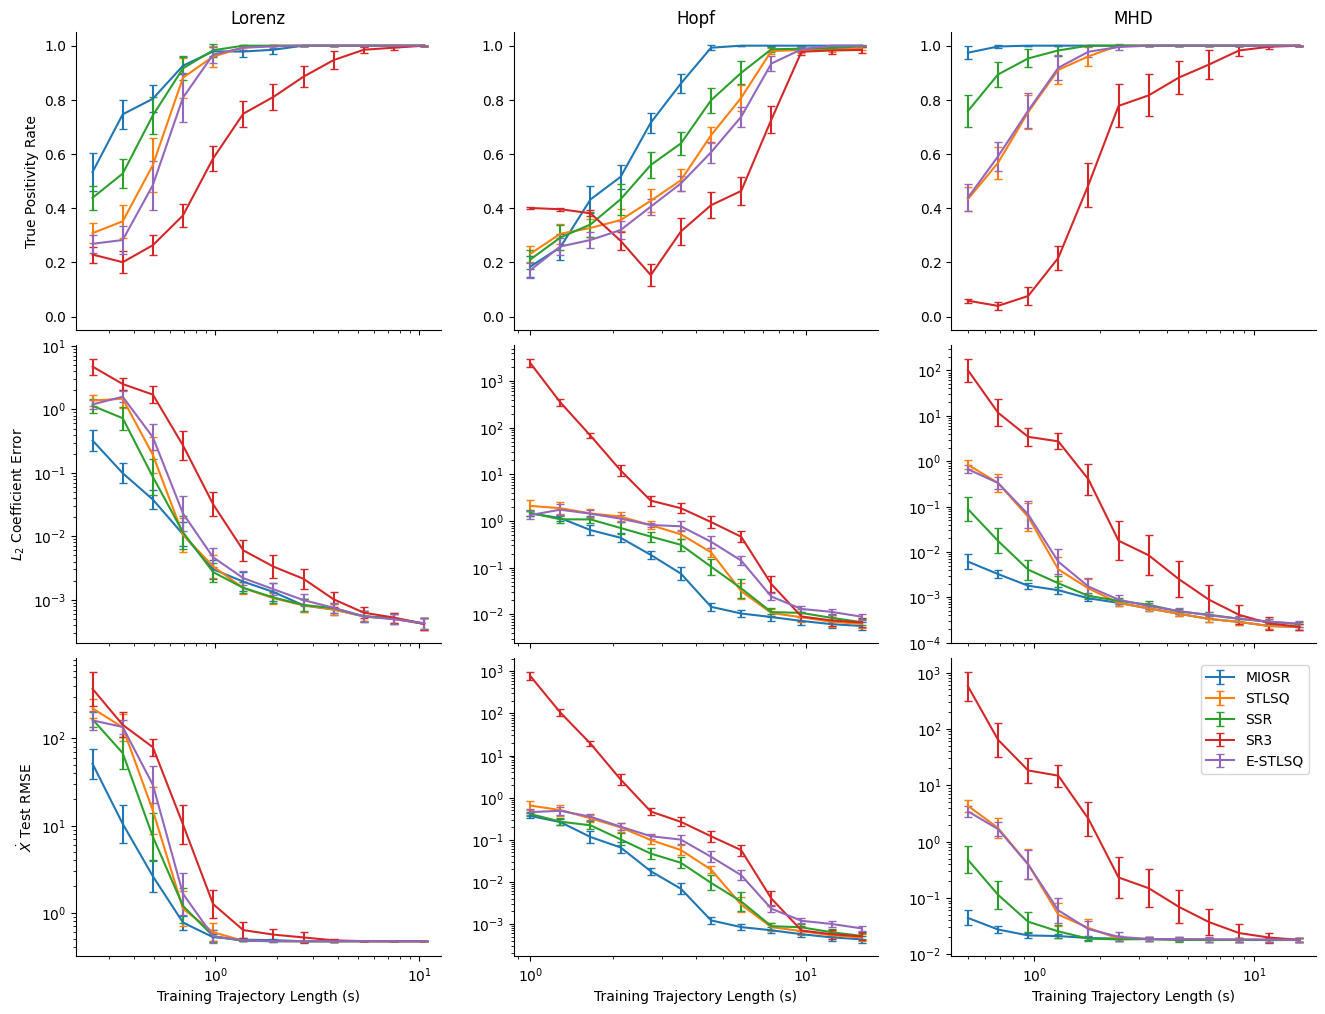
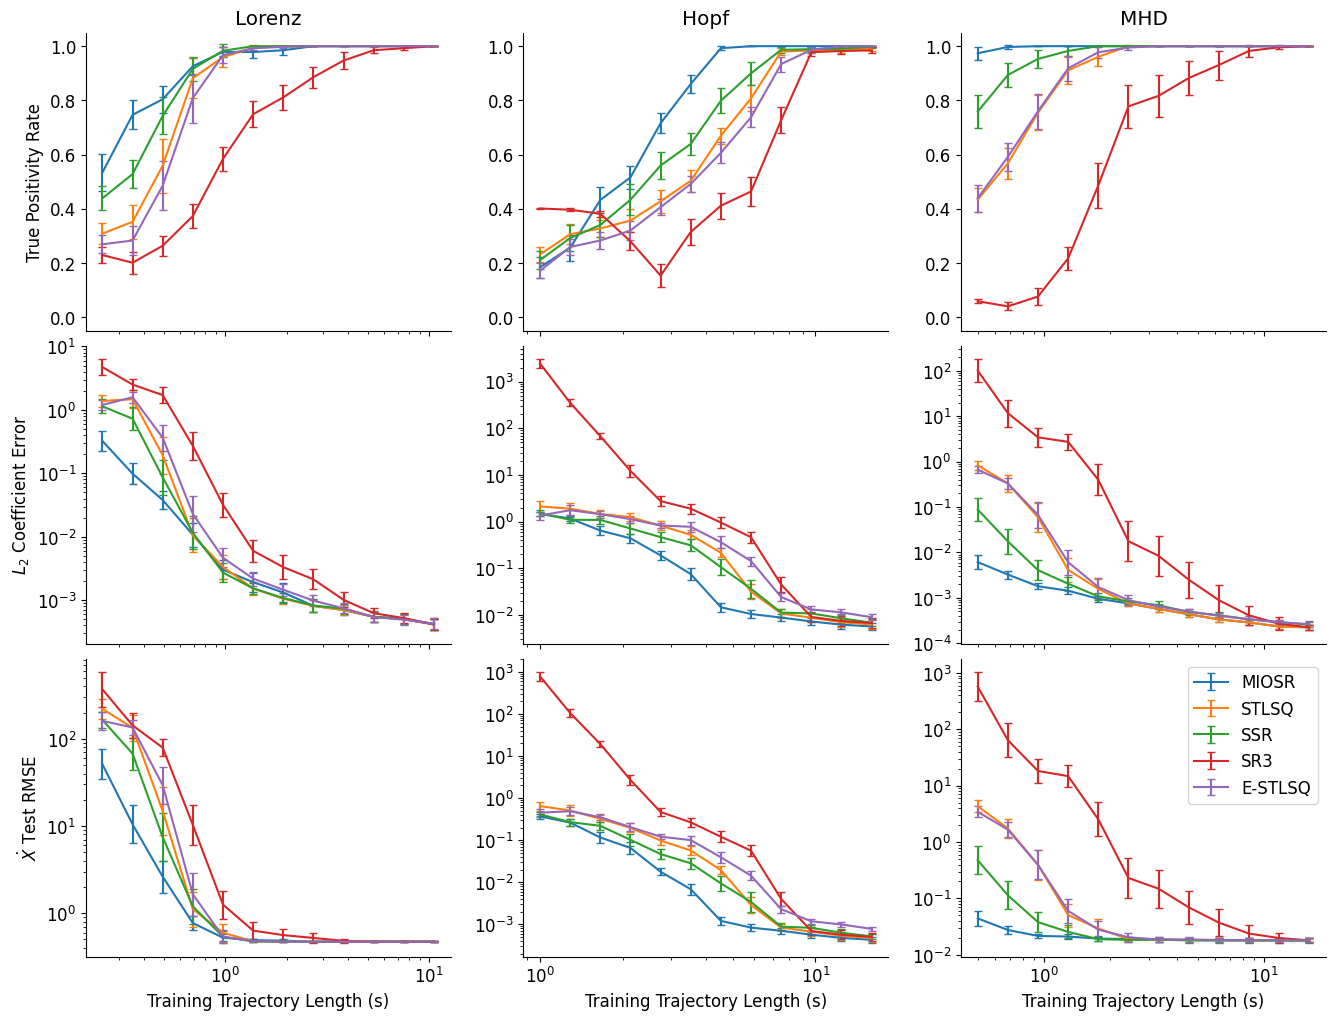
finalize plots

diff --git a/miosr.py b/miosr.py
@@ -61,15 +61,9 @@ class MIOSR(BaseOptimizer):
             copy_X=copy_X,
         )
 
-        # if target_sparsity is not None and\
-        #             (target_sparsity <= 0 or not isinstance(target_sparsity, int)) :
-        #     raise ValueError("target_sparsity must be positive int")
-        # if group_sparsity is not None \
-        #         and ([g_sparsity <= 0 or not isinstance(g_sparsity, int)
-        #               for g_sparsity in group_sparsity]) \
-        #         and (target_sparsity is None or sum(group_sparsity) >= target_sparsity):
-        #     raise ValueError("group_sparsity must be tuple of positive integers"
-        #                      "with sum greater than target_sparsity")
+        if target_sparsity is not None and\
+                    (target_sparsity <= 0 or not isinstance(target_sparsity, int)):
+            raise ValueError("target_sparsity must be positive int")
         if constraint_order not in {"target", "feature"}:
             raise ValueError("constraint_order must be one of {'target', 'feature'}")
         if alpha < 0:

diff --git a/make_plots.py b/make_plots.py
@@ -274,6 +274,7 @@ def noise_duration_grid_plot(  # Constraint experiment plot
 
 
 if __name__ == '__main__':
+    plt.rcParams.update({'font.size': 12})
     # Full lib dif
     result_dict = load_results([
         'final_draft_dif_lorenz',
